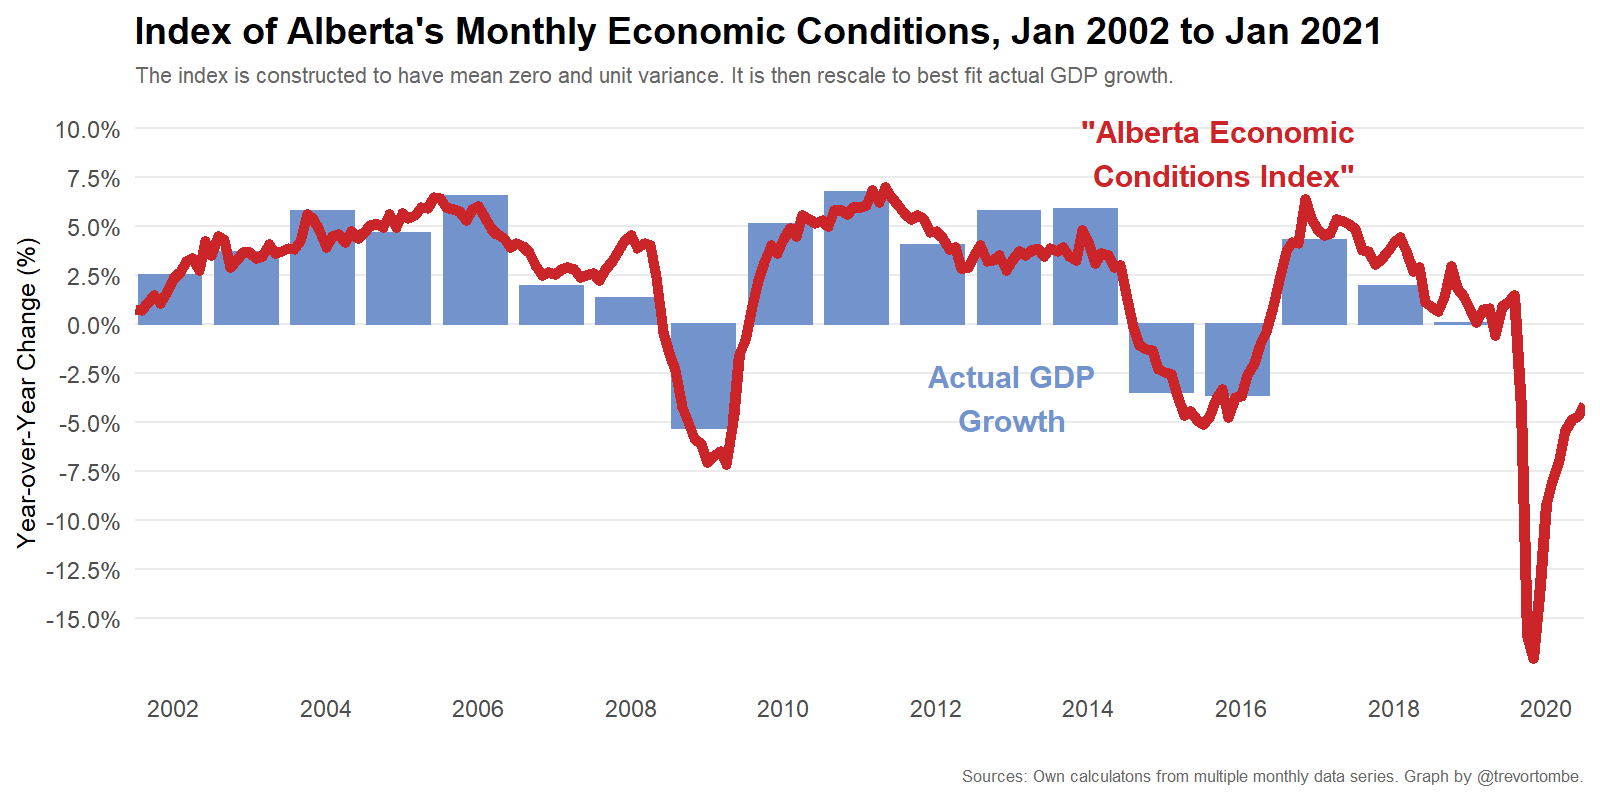
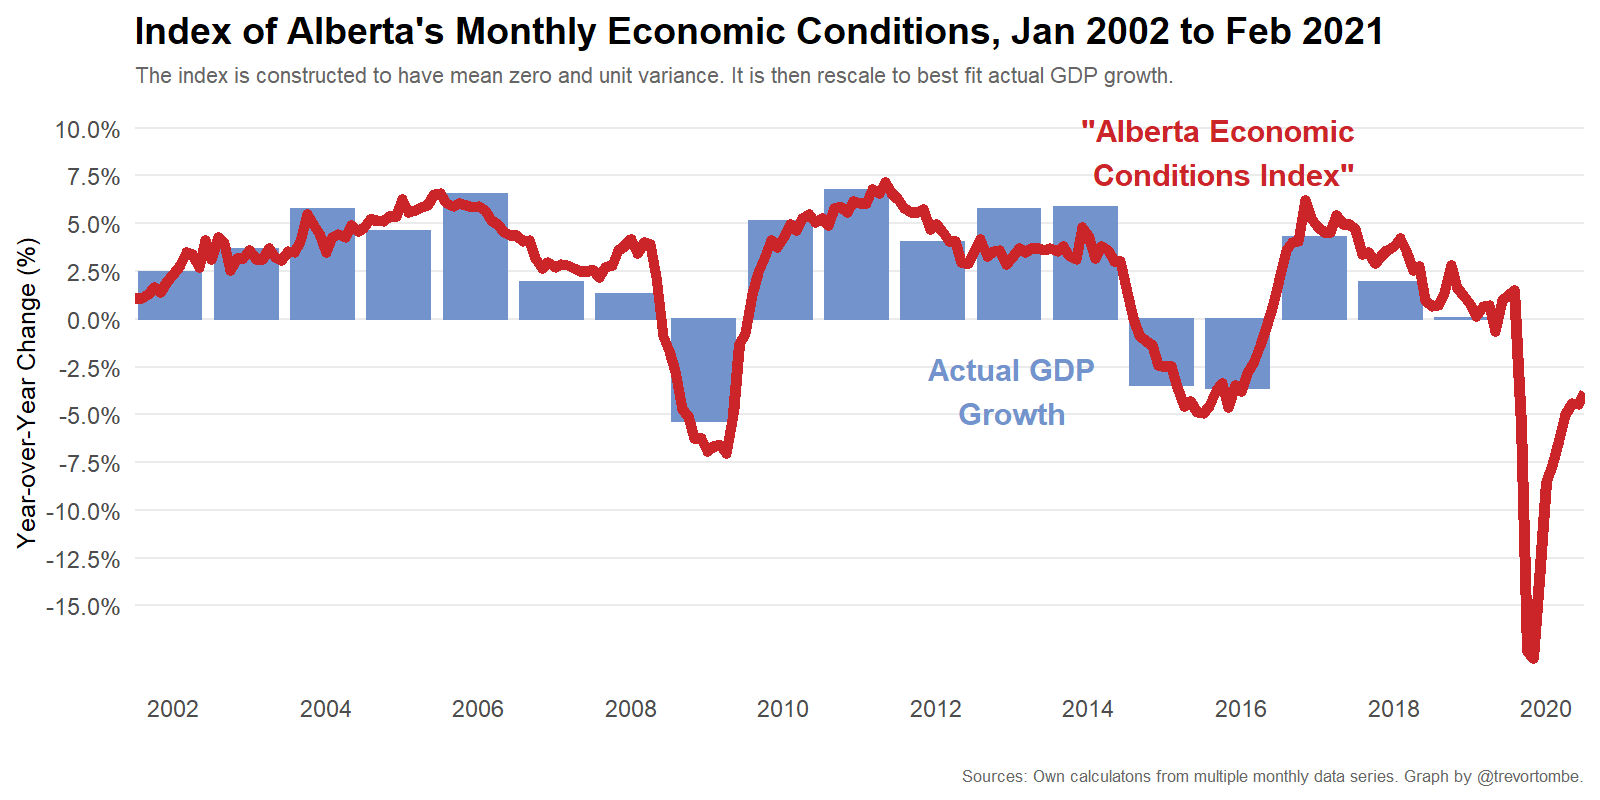
Update All Plots

diff --git a/README.md b/README.md
@@ -14,11 +14,11 @@ file is run, manual entry of data may be required (for example, wells
 drilled). Third, “ECI.R” estimates the first principle component from
 this data and generates the visualization.
 
-The latest ECI for Jan 2021 is -1.54. The full time series since Jan
+The latest ECI for Feb 2021 is -1.15. The full time series since Jan
 2002 is plotted below:
 
 ![Alberta ECI](plot.png)
 
 ------------------------------------------------------------------------
 
-The index was last updated on 2021-04-06 09:04:34 MDT.
+The index was last updated on 2021-05-03 10:21:22 MDT.
